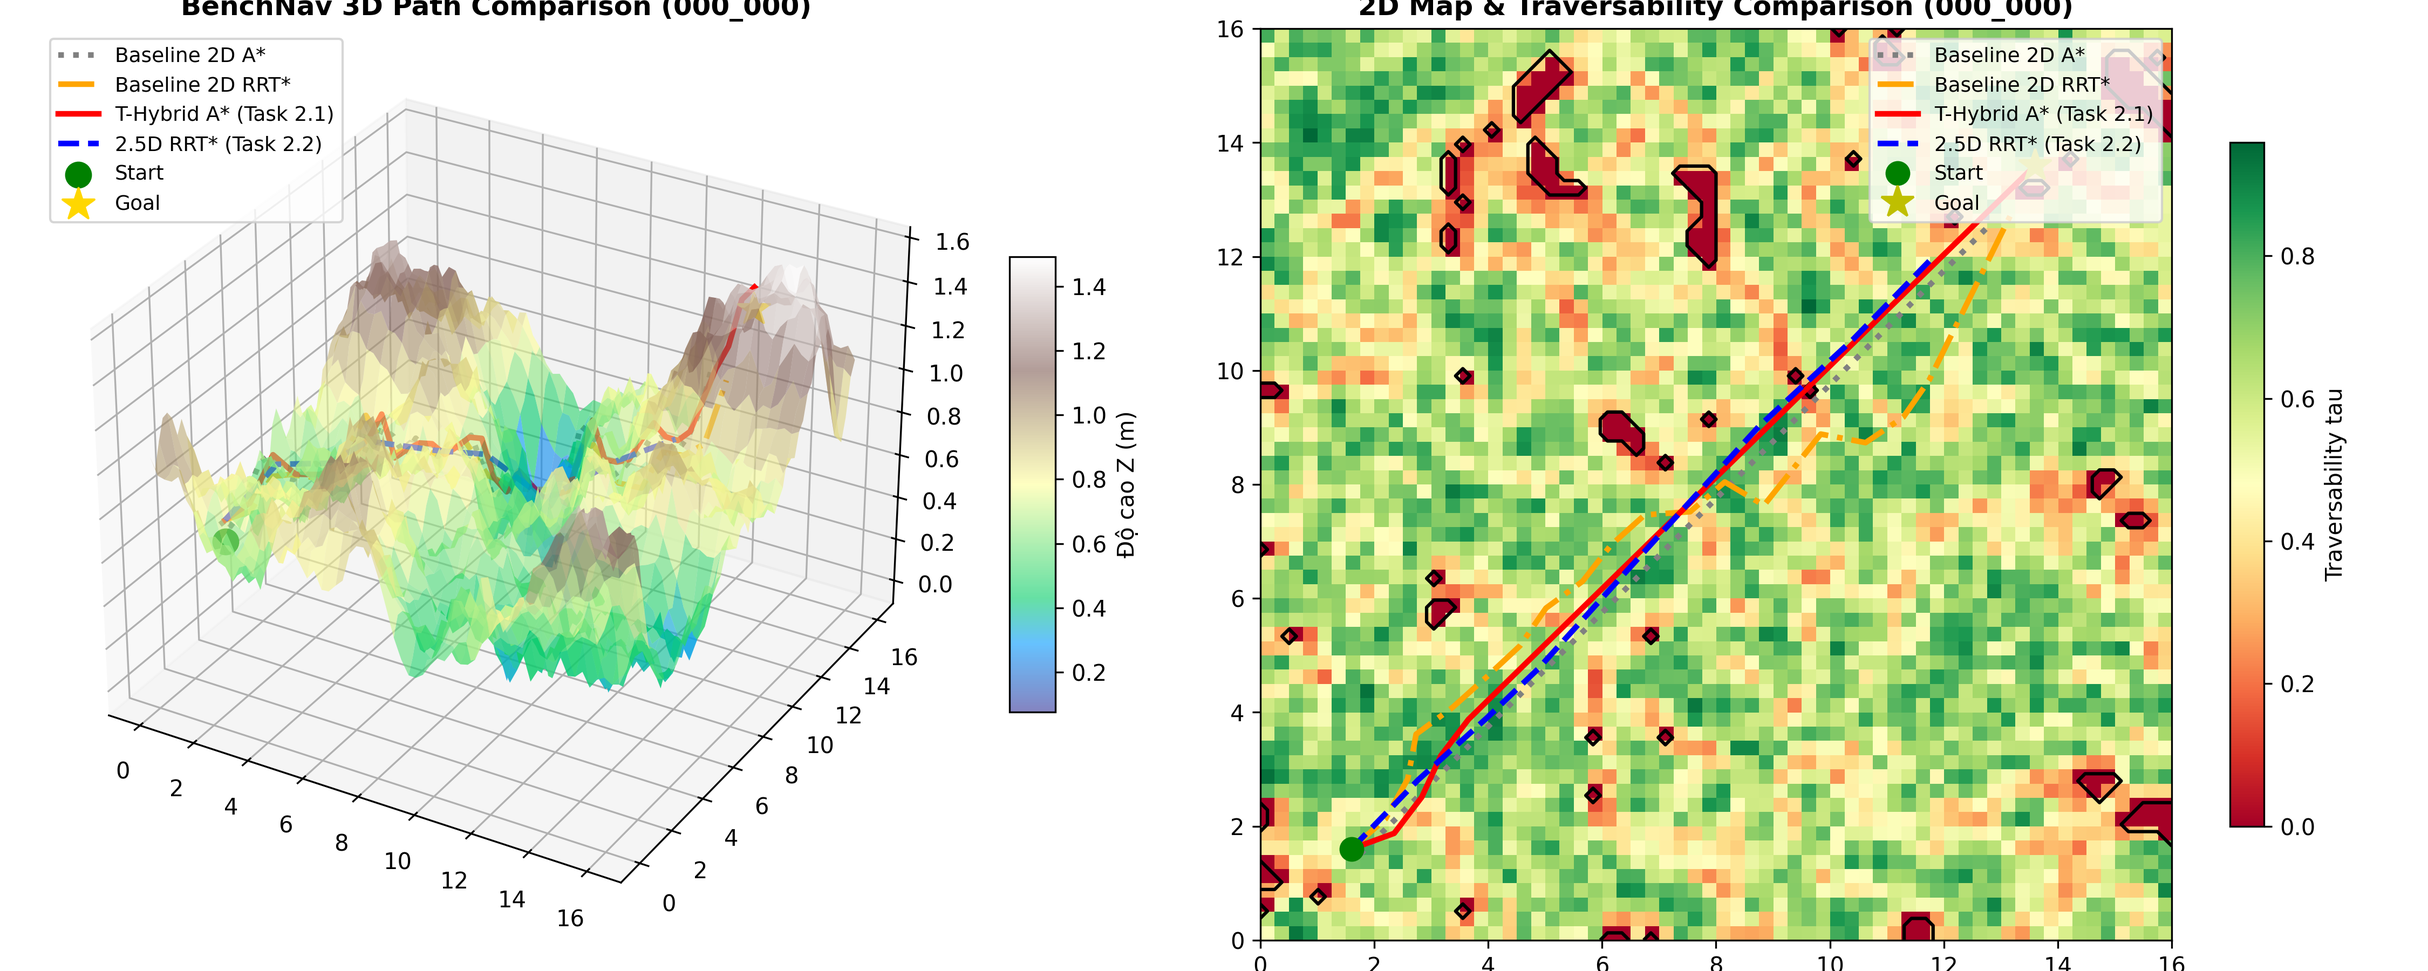
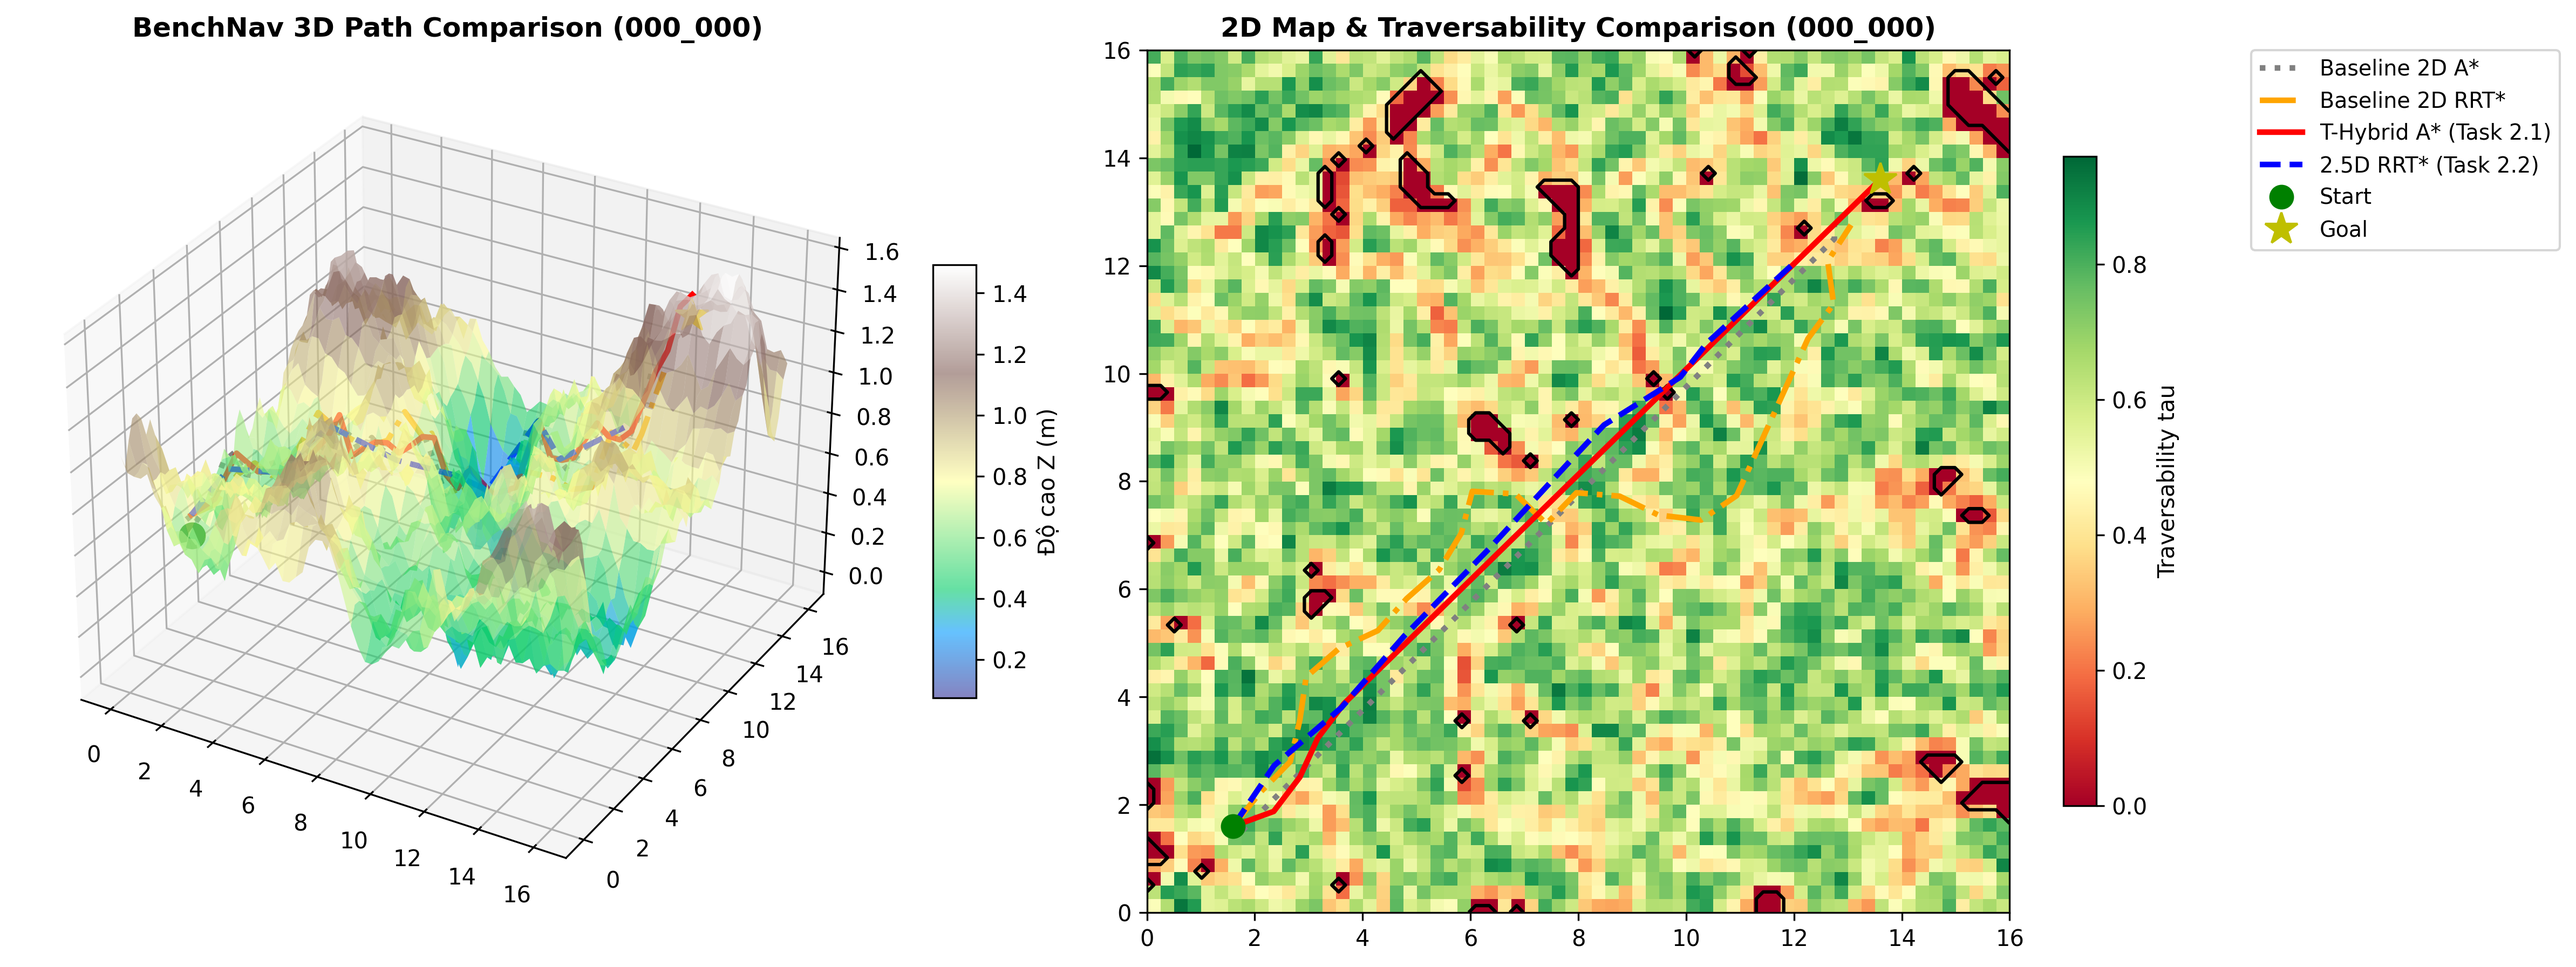
.

diff --git a/3. code/run_benchmark.py b/3. code/run_benchmark.py
@@ -8,6 +8,7 @@ import matplotlib.pyplot as plt
 
 from map_utils.map_loader import MapLoader
 from map_utils.hybrid_map import HybridMap
+from map_utils.point_picker import select_start_goal
 from planners.thybrid_a_star import THybridAStar
 from planners.rrt_star_2_5d import RRTStar25D
 from planners.baselines import BaselineAStar, BaselineRRTStar
@@ -25,8 +26,8 @@ def main():
     X, Y, Z, res = loader.load_map(filepath)
     hmap = HybridMap(X, Y, Z, resolution=res)
 
-    start_pose = (hmap.width * 0.1, hmap.height * 0.1, 0.0)
-    goal_pose = (hmap.width * 0.85, hmap.height * 0.85, 0.0)
+    # 2. Chọn vị trí Start & Goal bằng click trỏ chuột trên popup (hoặc nhập tọa độ)
+    start_pose, goal_pose = select_start_goal(hmap, map_name)
 
     print(f"Executing BenchNav benchmark on '{map_name}' from {start_pose[:2]} to {goal_pose[:2]}...\n")
 
@@ -36,7 +37,6 @@ def main():
         "T-Hybrid A* (Task 2.1)": THybridAStar(hmap, max_iterations=4000),
         "2.5D RRT* (Task 2.2)": RRTStar25D(hmap, max_iterations=1200)
     }
-
 
     results = []
     paths_dict = {}
@@ -57,7 +57,7 @@ def main():
               f"Std Roll: {metrics['std_roll_deg']:.2f}° | "
               f"Mean Tau: {metrics['mean_traversability']:.3f}")
 
-    # 2. In bảng tổng hợp so sánh BenchNav
+    # 3. In bảng tổng hợp so sánh BenchNav
     print("\n==========================================================================")
     print(f" BẢNG SO SÁNH THUẬT TOÁN BENCHNAV (Map: {map_name})")
     print("==========================================================================")
@@ -66,7 +66,7 @@ def main():
     for r in results:
         print(f"{r['algorithm']:<25} | {str(r['success']):<8} | {r['planning_time_sec']:<10.3f} | {r['path_length_3d']:<10.2f} | {r['std_roll_deg']:<10.2f} | {r['mean_traversability']:<10.3f}")
 
-    # 3. Lưu log JSON & Ảnh so sánh đa đường đi vào 4. logs
+    # 4. Lưu log JSON & Ảnh so sánh với CHÚ THÍCH ĐẶT NGOÀI KHUNG BẢN ĐỒ
     log_dir = "/home/wsly/Nhm2-2.5D/4. logs"
     os.makedirs(log_dir, exist_ok=True)
 
@@ -75,7 +75,7 @@ def main():
         json.dump(results, f, indent=2)
 
     img_path = os.path.join(log_dir, f"benchnav_{map_name}.png")
-    fig = plt.figure(figsize=(15, 6))
+    fig = plt.figure(figsize=(16, 6))
 
     # Đồ thị 3D Surface với tất cả các thuật toán
     ax1 = fig.add_subplot(1, 2, 1, projection='3d')
@@ -93,7 +93,6 @@ def main():
     ax1.scatter([start_pose[0]], [start_pose[1]], [hmap.get_elevation(start_pose[0], start_pose[1])], color='green', s=120, label='Start')
     ax1.scatter([goal_pose[0]], [goal_pose[1]], [hmap.get_elevation(goal_pose[0], goal_pose[1])], color='gold', marker='*', s=220, label='Goal')
     ax1.set_title(f'BenchNav 3D Path Comparison ({map_name})', fontsize=12, fontweight='bold')
-    ax1.legend(loc='upper left', fontsize=9)
 
     # Đồ thị 2D Traversability với tất cả các đường đi
     ax2 = fig.add_subplot(1, 2, 2)
@@ -109,10 +108,13 @@ def main():
     ax2.plot(start_pose[0], start_pose[1], 'go', markersize=10, label='Start')
     ax2.plot(goal_pose[0], goal_pose[1], 'y*', markersize=15, label='Goal')
     ax2.set_title(f'2D Map & Traversability Comparison ({map_name})', fontsize=12, fontweight='bold')
-    ax2.legend(loc='upper right', fontsize=9)
+
+    # ĐẶT CHÚ THÍCH (LEGEND) NGOÀI KHUNG BẢN ĐỒ BÊN PHẢI ĐỂ KHÔNG BỊ ĐÈ LÊN NỘI DUNG
+    handles, labels = ax2.get_legend_handles_labels()
+    ax2.legend(handles, labels, bbox_to_anchor=(1.28, 1.0), loc='upper left', borderaxespad=0., fontsize=9.5, frameon=True)
 
     plt.tight_layout()
-    plt.savefig(img_path, dpi=300)
+    plt.savefig(img_path, dpi=300, bbox_inches='tight')
     plt.close()
 
     print(f"\n[OK] Đã lưu log JSON vào: {json_path}")

diff --git a/3. code/run_25d_rrt.py b/3. code/run_25d_rrt.py
@@ -8,6 +8,7 @@ import matplotlib.pyplot as plt
 
 from map_utils.map_loader import MapLoader
 from map_utils.hybrid_map import HybridMap
+from map_utils.point_picker import select_start_goal
 from planners.rrt_star_2_5d import RRTStar25D
 from benchnav.metrics import PathEvaluator
 
@@ -23,14 +24,12 @@ def main():
     X, Y, Z, res = loader.load_map(filepath)
     hmap = HybridMap(X, Y, Z, resolution=res)
 
-    # Tự động tính toán điểm Start (góc dưới trái) và Goal (góc trên phải) phù hợp kích thước map
-    start_pose = (hmap.width * 0.1, hmap.height * 0.1, 0.0)
-    goal_pose = (hmap.width * 0.85, hmap.height * 0.85, 0.0)
+    # 2. Chọn vị trí Start & Goal bằng click trỏ chuột trên popup (hoặc nhập tọa độ)
+    start_pose, goal_pose = select_start_goal(hmap, map_name)
 
     print(f"Executing 2.5D RRT* search on '{map_name}' from {start_pose[:2]} to {goal_pose[:2]}...")
+
     planner = RRTStar25D(hmap, max_iterations=1200)
-
-
 
     t0 = time.time()
     path, success = planner.plan(start_pose, goal_pose)
@@ -40,7 +39,7 @@ def main():
     metrics["map_name"] = map_name
     metrics["algorithm"] = "2.5D RRT*"
 
-    # 2. In kết quả thực nghiệm
+    # 3. In kết quả thực nghiệm
     print("\n==========================================================================")
     print(f" THÀNH CÔNG: KẾT QUẢ THỰC NGHIỆM 2.5D RRT* (Map: {map_name})")
     print("==========================================================================")
@@ -51,7 +50,7 @@ def main():
     print(f" - Độ lệch chuẩn Pitch:   {metrics['std_pitch_deg']:.2f}° (Max: {metrics['max_pitch_deg']:.2f}°)")
     print(f" - Traversability (tau):  {metrics['mean_traversability']:.3f}")
 
-    # 3. Lưu kết quả JSON & Ảnh minh họa đường đi vào 4. logs
+    # 4. Lưu kết quả JSON & Ảnh minh họa đường đi vào 4. logs (Legend ngoài khung hình)
     log_dir = "/home/wsly/Nhm2-2.5D/4. logs"
     os.makedirs(log_dir, exist_ok=True)
 
@@ -60,7 +59,7 @@ def main():
         json.dump(metrics, f, indent=2)
 
     img_path = os.path.join(log_dir, f"25d_rrt_{map_name}.png")
-    fig = plt.figure(figsize=(14, 6))
+    fig = plt.figure(figsize=(16, 6))
 
     # Đồ thị 3D Map và đường đi
     ax1 = fig.add_subplot(1, 2, 1, projection='3d')
@@ -72,7 +71,6 @@ def main():
     ax1.scatter([start_pose[0]], [start_pose[1]], [hmap.get_elevation(start_pose[0], start_pose[1])], color='green', s=120, label='Start')
     ax1.scatter([goal_pose[0]], [goal_pose[1]], [hmap.get_elevation(goal_pose[0], goal_pose[1])], color='gold', marker='*', s=220, label='Goal')
     ax1.set_title(f'2.5D RRT* 3D Trajectory ({map_name})', fontsize=12, fontweight='bold')
-    ax1.legend()
 
     # Đồ thị 2D Traversability và đường đi
     ax2 = fig.add_subplot(1, 2, 2)
@@ -85,10 +83,13 @@ def main():
     ax2.plot(start_pose[0], start_pose[1], 'go', markersize=10, label='Start')
     ax2.plot(goal_pose[0], goal_pose[1], 'y*', markersize=15, label='Goal')
     ax2.set_title(f'2D Map & Traversability ({map_name})', fontsize=12, fontweight='bold')
-    ax2.legend()
+
+    # ĐẶT CHÚ THÍCH (LEGEND) NGOÀI KHUNG BẢN ĐỒ
+    handles, labels = ax2.get_legend_handles_labels()
+    ax2.legend(handles, labels, bbox_to_anchor=(1.28, 1.0), loc='upper left', borderaxespad=0., fontsize=9.5, frameon=True)
 
     plt.tight_layout()
-    plt.savefig(img_path, dpi=300)
+    plt.savefig(img_path, dpi=300, bbox_inches='tight')
     plt.close()
 
     print(f"\n[OK] Đã lưu log JSON vào: {json_path}")

diff --git a/3. code/map_utils/point_picker.py b/3. code/map_utils/point_picker.py
@@ -1,0 +1,74 @@
+import os
+import sys
+import numpy as np
+
+def select_start_goal(hmap, map_name="map"):
+    """
+    Pops up an interactive Matplotlib GUI window allowing the user to click
+    on the 2D map to set Start (Click 1) and Goal (Click 2) positions.
+    Falls back gracefully to default poses / CLI input if GUI/DISPLAY is unavailable.
+    """
+    has_display = bool(os.environ.get("DISPLAY") or os.environ.get("WAYLAND_DISPLAY"))
+
+    if has_display:
+        try:
+            import matplotlib
+            # Check if backend supports interactive GUI
+            if matplotlib.get_backend().lower() not in ['agg', 'template']:
+                import matplotlib.pyplot as plt
+
+                fig, ax = plt.subplots(figsize=(8, 8))
+                im = ax.imshow(hmap.static_traversability, origin='lower',
+                               extent=[0, hmap.width, 0, hmap.height], cmap='RdYlGn')
+                fig.colorbar(im, ax=ax, label='Traversability tau')
+                ax.contour(hmap.X, hmap.Y, hmap.occupancy_2d, levels=[0.5], colors='black', linewidths=1.2)
+
+                ax.set_title(f"[{map_name}] CLICK 1: Select START (Green) | CLICK 2: Select GOAL (Gold)",
+                             fontsize=11, fontweight='bold', color='darkblue')
+                ax.set_xlabel("X (meters)")
+                ax.set_ylabel("Y (meters)")
+                ax.grid(True, linestyle='--', alpha=0.5)
+
+                print("\n>> POP-UP WINDOW OPENED: Click 2 points on the Map:")
+                print("   - Click 1: START Point")
+                print("   - Click 2: GOAL Point")
+
+                pts = plt.ginput(2, timeout=30)
+                plt.close(fig)
+
+                if len(pts) == 2:
+                    (sx, sy), (gx, gy) = pts[0], pts[1]
+                    sx, sy = max(0.5, min(hmap.width - 0.5, sx)), max(0.5, min(hmap.height - 0.5, sy))
+                    gx, gy = max(0.5, min(hmap.width - 0.5, gx)), max(0.5, min(hmap.height - 0.5, gy))
+
+                    syaw = np.arctan2(gy - sy, gx - sx)
+                    gyaw = syaw
+                    print(f">> Mouse Selected START: ({sx:.2f}, {sy:.2f}) | GOAL: ({gx:.2f}, {gy:.2f})")
+                    return (sx, sy, syaw), (gx, gy, gyaw)
+        except Exception as e:
+            print(f">> GUI Window Notice: {e}. Falling back to default selection mode...")
+
+    # Headless / Default fallback mode
+    default_start = (hmap.width * 0.1, hmap.height * 0.1, 0.0)
+    default_goal = (hmap.width * 0.85, hmap.height * 0.85, 0.0)
+
+    print("\n----------------------------------------------------------")
+    print(f" Start & Goal Poses for Map '{map_name}':")
+    print(f"  - START: ({default_start[0]:.2f}, {default_start[1]:.2f})")
+    print(f"  - GOAL:  ({default_goal[0]:.2f}, {default_goal[1]:.2f})")
+    print("----------------------------------------------------------")
+
+    try:
+        ans = input("Press ENTER to use defaults, or type 'c' for custom (x,y): ").strip().lower()
+        if ans == 'c':
+            s_str = input(f"Enter START x,y (e.g. {default_start[0]:.1f},{default_start[1]:.1f}): ").strip()
+            g_str = input(f"Enter GOAL x,y (e.g. {default_goal[0]:.1f},{default_goal[1]:.1f}): ").strip()
+
+            sx, sy = map(float, s_str.split(','))
+            gx, gy = map(float, g_str.split(','))
+            syaw = np.arctan2(gy - sy, gx - sx)
+            return (sx, sy, syaw), (gx, gy, syaw)
+    except (EOFError, KeyboardInterrupt, ValueError):
+        pass
+
+    return default_start, default_goal

diff --git a/3. code/run_thybrid.py b/3. code/run_thybrid.py
@@ -8,6 +8,7 @@ import matplotlib.pyplot as plt
 
 from map_utils.map_loader import MapLoader
 from map_utils.hybrid_map import HybridMap
+from map_utils.point_picker import select_start_goal
 from planners.thybrid_a_star import THybridAStar
 from benchnav.metrics import PathEvaluator
 
@@ -23,11 +24,11 @@ def main():
     X, Y, Z, res = loader.load_map(filepath)
     hmap = HybridMap(X, Y, Z, resolution=res)
 
-    # Tự động tính toán điểm Start (góc dưới trái) và Goal (góc trên phải) phù hợp kích thước map
-    start_pose = (hmap.width * 0.1, hmap.height * 0.1, 0.0)
-    goal_pose = (hmap.width * 0.85, hmap.height * 0.85, 0.0)
+    # 2. Chọn vị trí Start & Goal bằng click trỏ chuột trên popup (hoặc nhập tọa độ)
+    start_pose, goal_pose = select_start_goal(hmap, map_name)
 
     print(f"Executing T-Hybrid A* search on '{map_name}' from {start_pose[:2]} to {goal_pose[:2]}...")
+
     planner = THybridAStar(hmap, max_iterations=6000)
 
     t0 = time.time()
@@ -38,7 +39,7 @@ def main():
     metrics["map_name"] = map_name
     metrics["algorithm"] = "T-Hybrid A*"
 
-    # 2. In kết quả thực nghiệm
+    # 3. In kết quả thực nghiệm
     print("\n==========================================================================")
     print(f" THÀNH CÔNG: KẾT QUẢ THỰC NGHIỆM T-HYBRID A* (Map: {map_name})")
     print("==========================================================================")
@@ -49,7 +50,7 @@ def main():
     print(f" - Độ lệch chuẩn Pitch:   {metrics['std_pitch_deg']:.2f}° (Max: {metrics['max_pitch_deg']:.2f}°)")
     print(f" - Traversability (tau):  {metrics['mean_traversability']:.3f}")
 
-    # 3. Lưu kết quả JSON & Ảnh minh họa đường đi vào 4. logs
+    # 4. Lưu kết quả JSON & Ảnh minh họa đường đi vào 4. logs (Legend ngoài khung hình)
     log_dir = "/home/wsly/Nhm2-2.5D/4. logs"
     os.makedirs(log_dir, exist_ok=True)
 
@@ -58,7 +59,7 @@ def main():
         json.dump(metrics, f, indent=2)
 
     img_path = os.path.join(log_dir, f"thybrid_{map_name}.png")
-    fig = plt.figure(figsize=(14, 6))
+    fig = plt.figure(figsize=(16, 6))
 
     # Đồ thị 3D Map và đường đi
     ax1 = fig.add_subplot(1, 2, 1, projection='3d')
@@ -70,7 +71,6 @@ def main():
     ax1.scatter([start_pose[0]], [start_pose[1]], [hmap.get_elevation(start_pose[0], start_pose[1])], color='green', s=120, label='Start')
     ax1.scatter([goal_pose[0]], [goal_pose[1]], [hmap.get_elevation(goal_pose[0], goal_pose[1])], color='gold', marker='*', s=220, label='Goal')
     ax1.set_title(f'T-Hybrid A* 3D Trajectory ({map_name})', fontsize=12, fontweight='bold')
-    ax1.legend()
 
     # Đồ thị 2D Traversability và đường đi
     ax2 = fig.add_subplot(1, 2, 2)
@@ -83,10 +83,13 @@ def main():
     ax2.plot(start_pose[0], start_pose[1], 'go', markersize=10, label='Start')
     ax2.plot(goal_pose[0], goal_pose[1], 'y*', markersize=15, label='Goal')
     ax2.set_title(f'2D Map & Traversability ({map_name})', fontsize=12, fontweight='bold')
-    ax2.legend()
+
+    # ĐẶT CHÚ THÍCH (LEGEND) NGOÀI KHUNG BẢN ĐỒ
+    handles, labels = ax2.get_legend_handles_labels()
+    ax2.legend(handles, labels, bbox_to_anchor=(1.28, 1.0), loc='upper left', borderaxespad=0., fontsize=9.5, frameon=True)
 
     plt.tight_layout()
-    plt.savefig(img_path, dpi=300)
+    plt.savefig(img_path, dpi=300, bbox_inches='tight')
     plt.close()
 
     print(f"\n[OK] Đã lưu log JSON vào: {json_path}")
